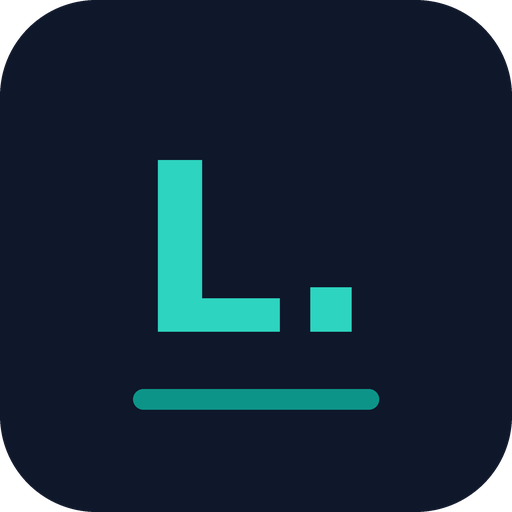
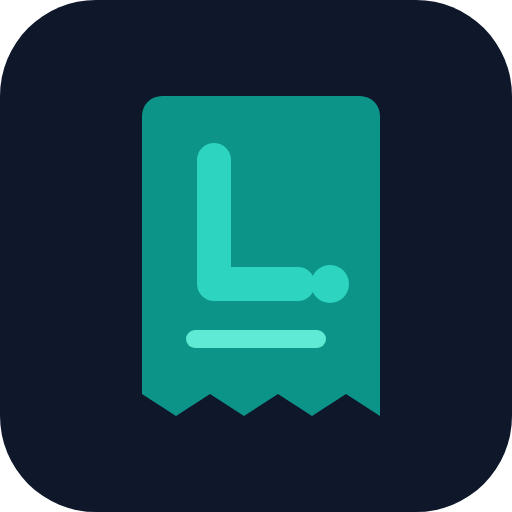
Ícono propio para cada app, en el encabezado y al instalarla
- Fuente: shared/iconos/*.svg (fondo marino y verdes, como la Calculadora):
  Constancias (documento con visto), Alta (portapapeles con cruz), Arancel
  (recibo con «L.»), Calculadora (tiroides), Inicio (cuadrícula).
- scripts/iconos.cjs genera icon-192/512 y la versión maskable (Android).
- Manifest nuevo en Constancias, Alta e Inicio para instalarlas desde Chrome;
  Arancel y Calculadora con el ícono nuevo y su versión maskable.
- El encabezado de cada app y la lista del inicio muestran el mismo ícono.
- Constancias: aviso en la vista previa cuando el aparato no tiene cargada
  la hoja membretada (el PDF saldría con los datos del médico).

Claude-Session: https://claude.ai/code/session_017o8Hc4rstEkktq5bEqf4VN

Changed region(s): [[0.25, 0.1875, 0.75, 0.8125]]

diff --git a/index.html b/index.html
@@ -1,6 +1,6 @@
 <!doctype html>
 <html lang="es">
-<head><meta charset="UTF-8"><meta name="viewport" content="width=device-width, initial-scale=1"><meta name="theme-color" content="#ffffff"><title>Apps MS SurgOnc</title>
+<head><meta charset="UTF-8"><meta name="viewport" content="width=device-width, initial-scale=1"><meta name="theme-color" content="#ffffff"><link rel="manifest" href="manifest.webmanifest"><link rel="icon" type="image/svg+xml" href="icon-inicio.svg"><link rel="apple-touch-icon" href="icon-inicio-192.png"><title>Apps MS SurgOnc</title>
 <style>
 /* MS-UI:INICIO */
 /* Estilo común de las apps (diseño «C»: estructura Consultorio, colores Clínico).
@@ -43,6 +43,10 @@
 .ms-header{background:var(--ms-surface);display:flex;align-items:center;gap:12px;padding:12px 16px 10px;}
 .ms-mark{width:38px;height:38px;border-radius:50%;background:var(--ms-accent);color:#fff;display:flex;align-items:center;justify-content:center;flex:none;}
 .ms-mark svg{width:19px;height:19px;}
+.ms-mark.ms-mark-app{background:none;border-radius:11px;overflow:hidden;}
+.ms-mark-app svg{width:100%;height:100%;display:block;}
+.ms-app-ic{width:40px;height:40px;flex:none;border-radius:11px;overflow:hidden;}
+.ms-app-ic svg{width:100%;height:100%;display:block;}
 .ms-titles{flex:1;min-width:0;}
 .ms-title{font-size:18px;font-weight:650;letter-spacing:-.02em;line-height:1.2;margin:0;color:var(--ms-ink);}
 .ms-sub{font-size:13px;color:var(--ms-muted);line-height:1.35;white-space:nowrap;overflow:hidden;text-overflow:ellipsis;}
@@ -169,15 +173,15 @@ body{margin:0;background:var(--ms-bg);}
 /* letra: A intermedia */
 </style></head>
 <body class="ms-app">
-<header class="ms-header"><div class="ms-mark"><svg viewBox="0 0 24 24" fill="none" stroke="currentColor" stroke-width="2" stroke-linecap="round" stroke-linejoin="round" aria-hidden="true"><path d="M12 2l8 4v6c0 5-3.5 8.5-8 10-4.5-1.5-8-5-8-10V6z"/></svg></div>
+<header class="ms-header"><div class="ms-mark ms-mark-app"><svg aria-hidden="true" xmlns="http://www.w3.org/2000/svg" viewBox="0 0 512 512"><rect width="512" height="512" rx="96" fill="#0f172a"/><rect x="120" y="120" width="124" height="124" rx="30" fill="#0d9488"/><rect x="268" y="120" width="124" height="124" rx="30" fill="#2DD4BF"/><rect x="120" y="268" width="124" height="124" rx="30" fill="#5eead4"/><rect x="268" y="268" width="124" height="124" rx="30" fill="#0d9488"/></svg></div>
 <div class="ms-titles"><h1 class="ms-title">Apps · Cirugía Oncológica</h1><div class="ms-sub">Dr. Manuel Salinas · Cirujano Oncólogo</div></div></header>
 <div class="wrap">
 <h2 class="ms-section-title">Aplicaciones</h2>
 <nav class="ms-list" aria-label="Aplicaciones">
-<a class="ms-row" href="./calculadora-ata/"><span class="ms-badge-n">ATA</span><span class="ms-row-main"><span class="ms-row-t">Calculadora ATA 2025</span><span class="ms-row-d">TI-RADS, Bethesda, cirugía, riesgo y seguimiento</span></span><svg class="ms-chev" width="16" height="16" viewBox="0 0 24 24" fill="none" stroke="currentColor" stroke-width="2.2" stroke-linecap="round" stroke-linejoin="round" aria-hidden="true"><path d="M9 18l6-6-6-6"/></svg></a>
-<a class="ms-row" href="./alta-quirurgica/"><span class="ms-badge-n">Rx</span><span class="ms-row-main"><span class="ms-row-t">Alta Quirúrgica</span><span class="ms-row-d">Recetas, indicaciones, laboratorios y citas</span></span><svg class="ms-chev" width="16" height="16" viewBox="0 0 24 24" fill="none" stroke="currentColor" stroke-width="2.2" stroke-linecap="round" stroke-linejoin="round" aria-hidden="true"><path d="M9 18l6-6-6-6"/></svg></a>
-<a class="ms-row" href="./constancias/"><span class="ms-badge-n">Doc</span><span class="ms-row-main"><span class="ms-row-t">Constancias</span><span class="ms-row-d">Consentimientos, referencias, incapacidades y constancias</span></span><svg class="ms-chev" width="16" height="16" viewBox="0 0 24 24" fill="none" stroke="currentColor" stroke-width="2.2" stroke-linecap="round" stroke-linejoin="round" aria-hidden="true"><path d="M9 18l6-6-6-6"/></svg></a>
-<a class="ms-row" href="./arancel-redhsa/"><span class="ms-badge-n">L.</span><span class="ms-row-main"><span class="ms-row-t">Arancel REDHSA</span><span class="ms-row-d">Honorarios y presupuesto para el paciente</span></span><svg class="ms-chev" width="16" height="16" viewBox="0 0 24 24" fill="none" stroke="currentColor" stroke-width="2.2" stroke-linecap="round" stroke-linejoin="round" aria-hidden="true"><path d="M9 18l6-6-6-6"/></svg></a>
+<a class="ms-row" href="./calculadora-ata/"><span class="ms-app-ic"><svg aria-hidden="true" xmlns="http://www.w3.org/2000/svg" viewBox="0 0 512 512"><rect width="512" height="512" rx="96" fill="#0f172a"/><ellipse cx="190" cy="265" rx="60" ry="125" fill="#0d9488"/><ellipse cx="322" cy="265" rx="60" ry="125" fill="#0d9488"/><rect x="200" y="250" width="112" height="50" fill="#0d9488"/><rect x="236" y="90" width="40" height="160" rx="14" fill="#5eead4"/></svg></span><span class="ms-row-main"><span class="ms-row-t">Calculadora ATA 2025</span><span class="ms-row-d">TI-RADS, Bethesda, cirugía, riesgo y seguimiento</span></span><svg class="ms-chev" width="16" height="16" viewBox="0 0 24 24" fill="none" stroke="currentColor" stroke-width="2.2" stroke-linecap="round" stroke-linejoin="round" aria-hidden="true"><path d="M9 18l6-6-6-6"/></svg></a>
+<a class="ms-row" href="./alta-quirurgica/"><span class="ms-app-ic"><svg aria-hidden="true" xmlns="http://www.w3.org/2000/svg" viewBox="0 0 512 512"><rect width="512" height="512" rx="96" fill="#0f172a"/><rect x="128" y="120" width="256" height="300" rx="30" fill="#0d9488"/><rect x="196" y="92" width="120" height="58" rx="16" fill="#5eead4"/><rect x="232" y="196" width="48" height="160" rx="14" fill="#2DD4BF"/><rect x="176" y="252" width="160" height="48" rx="14" fill="#2DD4BF"/></svg></span><span class="ms-row-main"><span class="ms-row-t">Alta Quirúrgica</span><span class="ms-row-d">Recetas, indicaciones, laboratorios y citas</span></span><svg class="ms-chev" width="16" height="16" viewBox="0 0 24 24" fill="none" stroke="currentColor" stroke-width="2.2" stroke-linecap="round" stroke-linejoin="round" aria-hidden="true"><path d="M9 18l6-6-6-6"/></svg></a>
+<a class="ms-row" href="./constancias/"><span class="ms-app-ic"><svg aria-hidden="true" xmlns="http://www.w3.org/2000/svg" viewBox="0 0 512 512"><rect width="512" height="512" rx="96" fill="#0f172a"/><path d="M150 104h150l70 70v206a24 24 0 0 1-24 24H150a24 24 0 0 1-24-24V128a24 24 0 0 1 24-24z" fill="#0d9488"/><path d="M300 104v52a18 18 0 0 0 18 18h52z" fill="#5eead4"/><rect x="166" y="206" width="150" height="20" rx="10" fill="#5eead4"/><rect x="166" y="250" width="176" height="20" rx="10" fill="#5eead4"/><rect x="166" y="294" width="120" height="20" rx="10" fill="#5eead4"/><circle cx="354" cy="370" r="66" fill="#2DD4BF" stroke="#0f172a" stroke-width="14"/><path d="M324 371l22 22 40-44" fill="none" stroke="#0f172a" stroke-width="18" stroke-linecap="round" stroke-linejoin="round"/></svg></span><span class="ms-row-main"><span class="ms-row-t">Constancias</span><span class="ms-row-d">Consentimientos, referencias, incapacidades y constancias</span></span><svg class="ms-chev" width="16" height="16" viewBox="0 0 24 24" fill="none" stroke="currentColor" stroke-width="2.2" stroke-linecap="round" stroke-linejoin="round" aria-hidden="true"><path d="M9 18l6-6-6-6"/></svg></a>
+<a class="ms-row" href="./arancel-redhsa/"><span class="ms-app-ic"><svg aria-hidden="true" xmlns="http://www.w3.org/2000/svg" viewBox="0 0 512 512"><rect width="512" height="512" rx="96" fill="#0f172a"/><path d="M152 96h208a20 20 0 0 1 20 20v300l-34-22-34 22-34-22-34 22-34-22-34 22-34-22V116a20 20 0 0 1 20-20z" fill="#0d9488"/><path d="M214 160v124h84" fill="none" stroke="#2DD4BF" stroke-width="34" stroke-linecap="round" stroke-linejoin="round"/><circle cx="330" cy="284" r="19" fill="#2DD4BF"/><rect x="186" y="330" width="140" height="18" rx="9" fill="#5eead4"/></svg></span><span class="ms-row-main"><span class="ms-row-t">Arancel REDHSA</span><span class="ms-row-d">Honorarios y presupuesto para el paciente</span></span><svg class="ms-chev" width="16" height="16" viewBox="0 0 24 24" fill="none" stroke="currentColor" stroke-width="2.2" stroke-linecap="round" stroke-linejoin="round" aria-hidden="true"><path d="M9 18l6-6-6-6"/></svg></a>
 </nav>
 </div>
 </body>

diff --git a/constancias/index.html b/constancias/index.html
@@ -4,6 +4,10 @@
 <meta charset="UTF-8">
 <meta name="viewport" content="width=device-width, initial-scale=1.0, maximum-scale=1">
 <title>Constancias — Dr. Manuel Salinas</title>
+<link rel="manifest" href="manifest.webmanifest">
+<link rel="icon" type="image/svg+xml" href="icon.svg">
+<link rel="apple-touch-icon" href="icon-192.png">
+<meta name="theme-color" content="#FFFFFF">
 <script src="https://cdnjs.cloudflare.com/ajax/libs/jspdf/2.5.1/jspdf.umd.min.js"></script>
 <script src="https://accounts.google.com/gsi/client" async defer></script>
 <script src="https://apis.google.com/js/api.js" async defer></script>
@@ -49,6 +53,10 @@
 .ms-header{background:var(--ms-surface);display:flex;align-items:center;gap:12px;padding:12px 16px 10px;}
 .ms-mark{width:38px;height:38px;border-radius:50%;background:var(--ms-accent);color:#fff;display:flex;align-items:center;justify-content:center;flex:none;}
 .ms-mark svg{width:19px;height:19px;}
+.ms-mark.ms-mark-app{background:none;border-radius:11px;overflow:hidden;}
+.ms-mark-app svg{width:100%;height:100%;display:block;}
+.ms-app-ic{width:40px;height:40px;flex:none;border-radius:11px;overflow:hidden;}
+.ms-app-ic svg{width:100%;height:100%;display:block;}
 .ms-titles{flex:1;min-width:0;}
 .ms-title{font-size:18px;font-weight:650;letter-spacing:-.02em;line-height:1.2;margin:0;color:var(--ms-ink);}
 .ms-sub{font-size:13px;color:var(--ms-muted);line-height:1.35;white-space:nowrap;overflow:hidden;text-overflow:ellipsis;}
@@ -2814,7 +2822,7 @@ function renderHeader(){
   const on = !!state.accessToken;
   return `
   <header class="ms-header">
-    <div class="ms-mark">${ICON_DOC}</div>
+    <div class="ms-mark ms-mark-app"><svg aria-hidden="true" xmlns="http://www.w3.org/2000/svg" viewBox="0 0 512 512"><rect width="512" height="512" rx="96" fill="#0f172a"/><path d="M150 104h150l70 70v206a24 24 0 0 1-24 24H150a24 24 0 0 1-24-24V128a24 24 0 0 1 24-24z" fill="#0d9488"/><path d="M300 104v52a18 18 0 0 0 18 18h52z" fill="#5eead4"/><rect x="166" y="206" width="150" height="20" rx="10" fill="#5eead4"/><rect x="166" y="250" width="176" height="20" rx="10" fill="#5eead4"/><rect x="166" y="294" width="120" height="20" rx="10" fill="#5eead4"/><circle cx="354" cy="370" r="66" fill="#2DD4BF" stroke="#0f172a" stroke-width="14"/><path d="M324 371l22 22 40-44" fill="none" stroke="#0f172a" stroke-width="18" stroke-linecap="round" stroke-linejoin="round"/></svg></div>
     <div class="ms-titles">
       <h1 class="ms-title">Constancias</h1>
       <div class="ms-sub">Dr. Manuel Salinas · Cirujano Oncólogo</div>
@@ -3273,6 +3281,7 @@ function renderPreview(){
   </div>
   <h2 class="screentitle">Vista previa</h2>
   <div style="height:14px"></div>
+  ${!msMembreteGuardado() && !t.cmh ? `<div class="ms-banner ms-banner-warn" style="margin-bottom:12px;">En este aparato no está cargada la hoja membretada: el PDF saldrá con los datos del médico. Para usarla, cárguela en Ajustes › Encabezado de los documentos.</div>` : ''}
   <div class="paper-preview">
     ${msMembrete() ? `<div aria-label="Hoja membretada" style="margin:-4px 0 10px;aspect-ratio:8.5/${msMembrete().top};background:url(${msMembrete().img}) top center/100% auto no-repeat;"></div>` : ''}
     ${!msMembrete() && state.logoDataUrl ? `<div style="text-align:center;"><img src="${state.logoDataUrl}" style="${(state.logoAspect||2.5) >= 3.5 ? 'width:100%;' : 'max-height:110px;max-width:260px;'}margin-bottom:10px;"></div>` : ''}

diff --git a/arancel-redhsa/index.html b/arancel-redhsa/index.html
@@ -5,7 +5,7 @@
 <meta name="viewport" content="width=device-width, initial-scale=1, maximum-scale=1">
 <link rel="manifest" href="manifest.webmanifest">
 <meta name="theme-color" content="#FFFFFF">
-<link rel="icon" href="icon-192.png">
+<link rel="icon" type="image/svg+xml" href="icon.svg">
 <link rel="apple-touch-icon" href="icon-192.png">
 <meta name="apple-mobile-web-app-capable" content="yes">
 <meta name="apple-mobile-web-app-title" content="Arancel">
@@ -55,6 +55,10 @@
 .ms-header{background:var(--ms-surface);display:flex;align-items:center;gap:12px;padding:12px 16px 10px;}
 .ms-mark{width:38px;height:38px;border-radius:50%;background:var(--ms-accent);color:#fff;display:flex;align-items:center;justify-content:center;flex:none;}
 .ms-mark svg{width:19px;height:19px;}
+.ms-mark.ms-mark-app{background:none;border-radius:11px;overflow:hidden;}
+.ms-mark-app svg{width:100%;height:100%;display:block;}
+.ms-app-ic{width:40px;height:40px;flex:none;border-radius:11px;overflow:hidden;}
+.ms-app-ic svg{width:100%;height:100%;display:block;}
 .ms-titles{flex:1;min-width:0;}
 .ms-title{font-size:18px;font-weight:650;letter-spacing:-.02em;line-height:1.2;margin:0;color:var(--ms-ink);}
 .ms-sub{font-size:13px;color:var(--ms-muted);line-height:1.35;white-space:nowrap;overflow:hidden;text-overflow:ellipsis;}
@@ -595,7 +599,7 @@ button.armado{background:var(--ms-danger) !important;border-color:var(--ms-dange
 <div id="app" class="ms-app">
 
   <header class="ms-header">
-    <div class="ms-mark"><svg viewBox="0 0 24 24" fill="none" stroke="currentColor" stroke-width="2" stroke-linecap="round" stroke-linejoin="round" aria-hidden="true"><path d="M4 7h16M4 12h16M4 17h10"/><path d="M19 15v6M16 18h6"/></svg></div>
+    <div class="ms-mark ms-mark-app"><svg aria-hidden="true" xmlns="http://www.w3.org/2000/svg" viewBox="0 0 512 512"><rect width="512" height="512" rx="96" fill="#0f172a"/><path d="M152 96h208a20 20 0 0 1 20 20v300l-34-22-34 22-34-22-34 22-34-22-34 22-34-22V116a20 20 0 0 1 20-20z" fill="#0d9488"/><path d="M214 160v124h84" fill="none" stroke="#2DD4BF" stroke-width="34" stroke-linecap="round" stroke-linejoin="round"/><circle cx="330" cy="284" r="19" fill="#2DD4BF"/><rect x="186" y="330" width="140" height="18" rx="9" fill="#5eead4"/></svg></div>
     <div class="ms-titles">
       <h1 class="ms-title">Arancel REDHSA</h1>
       <div class="ms-sub">Honorarios médico-quirúrgicos</div>

diff --git a/alta-quirurgica/index.html b/alta-quirurgica/index.html
@@ -4,6 +4,10 @@
 <meta charset="UTF-8">
 <meta name="viewport" content="width=device-width, initial-scale=1, viewport-fit=cover">
 <title>Alta Quirúrgica — Dr. Manuel Salinas</title>
+<link rel="manifest" href="manifest.webmanifest">
+<link rel="icon" type="image/svg+xml" href="icon.svg">
+<link rel="apple-touch-icon" href="icon-192.png">
+<meta name="theme-color" content="#FFFFFF">
 <script>
 (function(){
   try{
@@ -55,6 +59,10 @@
 .ms-header{background:var(--ms-surface);display:flex;align-items:center;gap:12px;padding:12px 16px 10px;}
 .ms-mark{width:38px;height:38px;border-radius:50%;background:var(--ms-accent);color:#fff;display:flex;align-items:center;justify-content:center;flex:none;}
 .ms-mark svg{width:19px;height:19px;}
+.ms-mark.ms-mark-app{background:none;border-radius:11px;overflow:hidden;}
+.ms-mark-app svg{width:100%;height:100%;display:block;}
+.ms-app-ic{width:40px;height:40px;flex:none;border-radius:11px;overflow:hidden;}
+.ms-app-ic svg{width:100%;height:100%;display:block;}
 .ms-titles{flex:1;min-width:0;}
 .ms-title{font-size:18px;font-weight:650;letter-spacing:-.02em;line-height:1.2;margin:0;color:var(--ms-ink);}
 .ms-sub{font-size:13px;color:var(--ms-muted);line-height:1.35;white-space:nowrap;overflow:hidden;text-overflow:ellipsis;}
@@ -641,7 +649,7 @@ input:focus,select:focus,textarea:focus{outline:2px solid var(--ms-accent);outli
 <body class="ms-app">
 
 <div id="topbar">
-  <div class="ms-mark" id="topbarMark"><svg viewBox="0 0 24 24" fill="none" stroke="currentColor" stroke-width="2" stroke-linecap="round" stroke-linejoin="round" aria-hidden="true"><path d="M9 3h6v4H9z"/><path d="M8 5H6a2 2 0 0 0-2 2v13a2 2 0 0 0 2 2h12a2 2 0 0 0 2-2V7a2 2 0 0 0-2-2h-2"/><path d="M12 11v6M9 14h6"/></svg></div>
+  <div class="ms-mark ms-mark-app" id="topbarMark"><svg aria-hidden="true" xmlns="http://www.w3.org/2000/svg" viewBox="0 0 512 512"><rect width="512" height="512" rx="96" fill="#0f172a"/><rect x="128" y="120" width="256" height="300" rx="30" fill="#0d9488"/><rect x="196" y="92" width="120" height="58" rx="16" fill="#5eead4"/><rect x="232" y="196" width="48" height="160" rx="14" fill="#2DD4BF"/><rect x="176" y="252" width="160" height="48" rx="14" fill="#2DD4BF"/></svg></div>
   <img class="brand-logo" id="topbarLogo" style="display:none;">
   <div class="titlewrap" style="margin-right:auto;">
     <h1>Alta Quirúrgica</h1>

diff --git a/shared/ms-ui.css b/shared/ms-ui.css
@@ -38,6 +38,10 @@
 .ms-header{background:var(--ms-surface);display:flex;align-items:center;gap:12px;padding:12px 16px 10px;}
 .ms-mark{width:38px;height:38px;border-radius:50%;background:var(--ms-accent);color:#fff;display:flex;align-items:center;justify-content:center;flex:none;}
 .ms-mark svg{width:19px;height:19px;}
+.ms-mark.ms-mark-app{background:none;border-radius:11px;overflow:hidden;}
+.ms-mark-app svg{width:100%;height:100%;display:block;}
+.ms-app-ic{width:40px;height:40px;flex:none;border-radius:11px;overflow:hidden;}
+.ms-app-ic svg{width:100%;height:100%;display:block;}
 .ms-titles{flex:1;min-width:0;}
 .ms-title{font-size:18px;font-weight:650;letter-spacing:-.02em;line-height:1.2;margin:0;color:var(--ms-ink);}
 .ms-sub{font-size:13px;color:var(--ms-muted);line-height:1.35;white-space:nowrap;overflow:hidden;text-overflow:ellipsis;}

diff --git a/calculadora-ata/src/App.jsx b/calculadora-ata/src/App.jsx
@@ -407,7 +407,7 @@ export default function App() {
       {/* ENCABEZADO COMPACTO */}
       <header className="bg-white text-slate-900 px-4 pt-3 pb-2">
         <div className="max-w-7xl mx-auto flex flex-wrap items-center gap-x-3 gap-y-2">
-          <div className="w-[38px] h-[38px] rounded-full bg-teal-700 text-white flex items-center justify-center shrink-0"><IconShield /></div>
+          <img src={`${import.meta.env.BASE_URL}icon.svg`} alt="" className="w-[38px] h-[38px] rounded-[11px] shrink-0" />
           <div className="min-w-0 flex-1">
             <h1 className="text-[18px] font-[650] tracking-tight leading-tight truncate">Calculadora ATA 2025</h1>
             <p className="text-xs text-slate-500 leading-tight truncate">Ringel MD, Sosa JA, et al. Thyroid 2025;35(8):841–985 · Corrigendum 35(11):1350</p>

diff --git a/arancel-redhsa/sw.js b/arancel-redhsa/sw.js
@@ -1,7 +1,7 @@
 // Funciona sin internet: guarda la app, sus íconos y el lector de PDF.
 // La página se busca primero en la red (para recibir actualizaciones) y, sin conexión, se usa la guardada.
-const CACHE = 'arancel-redhsa-v2';
-const ARCHIVOS = ['./', './index.html', './manifest.webmanifest', './icon-192.png', './icon-512.png',
+const CACHE = 'arancel-redhsa-v3';
+const ARCHIVOS = ['./', './index.html', './manifest.webmanifest', './icon-192.png', './icon-512.png', './icon-maskable-512.png', './icon.svg',
   'https://cdnjs.cloudflare.com/ajax/libs/pdf.js/3.11.174/pdf.min.js',
   'https://cdnjs.cloudflare.com/ajax/libs/pdf.js/3.11.174/pdf.worker.min.js'];
 self.addEventListener('install', e => {

diff --git a/calculadora-ata/vite.config.js b/calculadora-ata/vite.config.js
@@ -20,11 +20,11 @@ export default defineConfig({
         scope: '.',
         display: 'standalone',
         background_color: '#f1f5f9',
-        theme_color: '#0f172a',
+        theme_color: '#ffffff',
         icons: [
           { src: 'icon-192.png', sizes: '192x192', type: 'image/png' },
           { src: 'icon-512.png', sizes: '512x512', type: 'image/png' },
-          { src: 'icon-512.png', sizes: '512x512', type: 'image/png', purpose: 'maskable' },
+          { src: 'icon-maskable-512.png', sizes: '512x512', type: 'image/png', purpose: 'maskable' },
         ],
       },
     }),
